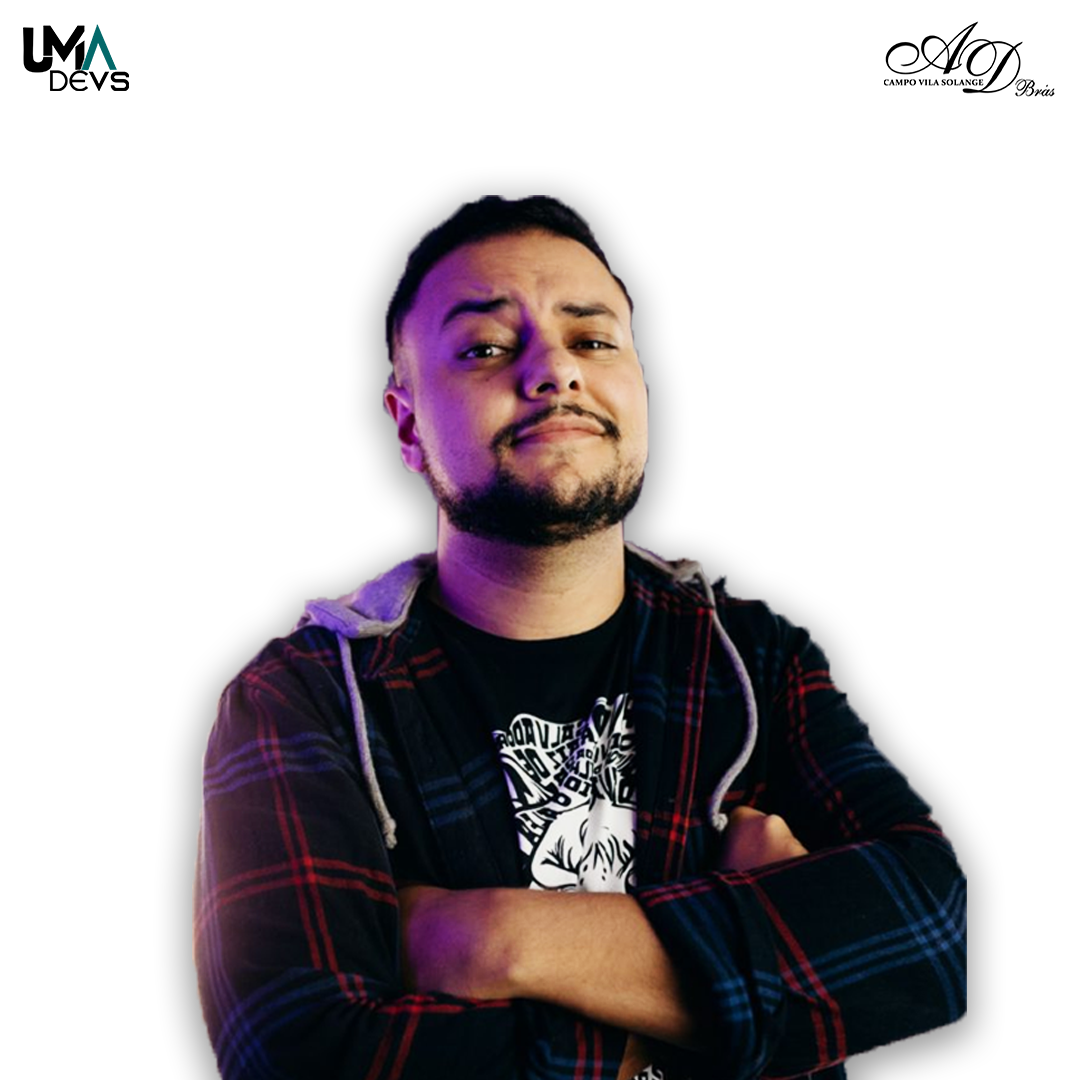
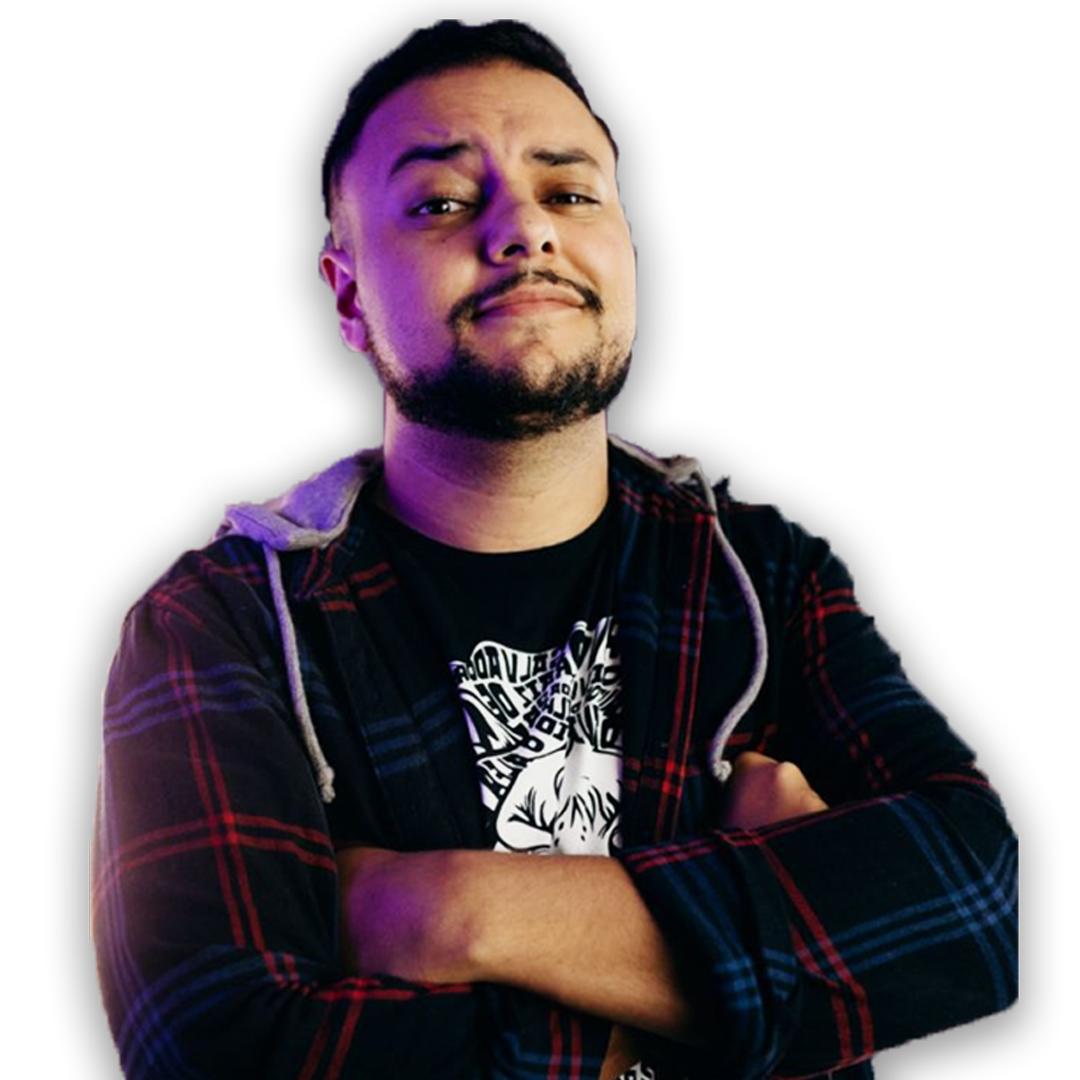
update

diff --git a/index.html b/index.html
@@ -5,7 +5,7 @@
         <meta name="viewport" content="width=device-width, initial-scale=1, shrink-to-fit=no" />
         <meta name="description" content="" />
         <meta name="author" content="" />
-        <title>New Age - Start Bootstrap Theme</title>
+        <title>Stand-Up - Umadevs 2021</title>
         <link rel="icon" type="image/x-icon" href="assets/favicon.ico" />
         <!-- Bootstrap icons-->
         <link href="https://cdn.jsdelivr.net/npm/bootstrap-icons@1.5.0/font/bootstrap-icons.css" rel="stylesheet" />
@@ -28,20 +28,21 @@
                 </button>
                 <div class="collapse navbar-collapse" id="navbarResponsive">
                     <ul class="navbar-nav ms-auto me-4 my-3 my-lg-0">
-                        <li class="nav-item"><a class="nav-link me-lg-3" href="#features">Features</a></li>
-                        <li class="nav-item"><a class="nav-link me-lg-3" href="#download">Download</a></li>
+                        <li class="nav-item"><a class="nav-link me-lg-3" href="#masthead">Página Inicial</a></li>
+                        <li class="nav-item"><a class="nav-link me-lg-3" href="#features">Infomação</a></li>
+                        <li class="nav-item"><a class="nav-link me-lg-3" href="#download">Show</a></li>
                     </ul>
                     <button class="btn btn-primary rounded-pill px-3 mb-2 mb-lg-0" data-bs-toggle="modal" data-bs-target="#feedbackModal">
                         <span class="d-flex align-items-center">
                             <i class="bi-chat-text-fill me-2"></i>
-                            <span class="small">Send Feedback</span>
+                            <span class="small">Enviar Feedback</span>
                         </span>
                     </button>
                 </div>
             </div>
         </nav>
         <!-- Mashead header-->
-        <header class="masthead">
+        <header class="masthead" id="masthead">
             <div class="container px-5">
                 <div class="row gx-5 align-items-center">
                     <div class="col-lg-6">
@@ -49,10 +50,7 @@
                         <div class="mb-5 mb-lg-0 text-center text-lg-start">
                             <h1 class="display-1 lh-1 mb-3">STAND UP UMADEVS</h1>
                             <p class="lead fw-normal text-muted mb-5">PAULO ZAMPARO</p>
-                            <div class="d-flex flex-column flex-lg-row align-items-center">
-                                <a class="me-lg-3 mb-4 mb-lg-0" href="#!"><img class="app-badge" src="assets/img/google-play-badge.svg" alt="..." /></a>
-                                <a href="#!"><img class="app-badge" src="assets/img/app-store-badge.svg" alt="..." /></a>
-                            </div>
+                            
                         </div>
                     </div>
                     <div class="col-lg-6">
@@ -65,19 +63,8 @@
                                         <stop class="gradient-end-color" offset="100%"></stop>
                                     </linearGradient>
                                 </defs>
-                                <circle cx="50" cy="50" r="50"></circle></svg
-                            ><svg class="shape-1 d-none d-sm-block" viewBox="0 0 240.83 240.83" xmlns="http://www.w3.org/2000/svg">
-                                <rect x="-32.54" y="78.39" width="305.92" height="84.05" rx="42.03" transform="translate(120.42 -49.88) rotate(45)"></rect>
-                                <rect x="-32.54" y="78.39" width="305.92" height="84.05" rx="42.03" transform="translate(-49.88 120.42) rotate(-45)"></rect></svg
-                            ><svg class="shape-2 d-none d-sm-block" viewBox="0 0 100 100" xmlns="http://www.w3.org/2000/svg"><circle cx="50" cy="50" r="50"></circle></svg>
-                            <div class="device-wrapper">
-                                <div class="device" data-device="iPhoneX" data-orientation="portrait" data-color="black">
-                                    <div class="screen bg-black">
-                                        <!-- PUT CONTENTS HERE:-->
-                                        <!-- * * This can be a video, image, or just about anything else.-->
-                                        <!-- * * Set the max width of your media to 100% and the height to-->
-                                        <!-- * * 100% like the demo example below.-->
-                                        <video muted="muted" autoplay="" loop="" style="max-width: 100%; height: 100%"><source src="assets/img/STAND UP UMADEVS - PAULO SOLO.png" type="video/mp4" /></video>
+                                <img class="paulo-inicio"src="/assets/STAND UP UMADEVS - PAULO SOLO.png">
+                                <circle cx="50" cy="50" r="50"></circle></svg>
                                     </div>
                                 </div>
                             </div>
@@ -87,16 +74,7 @@
             </div>
         </header>
         <!-- Quote/testimonial aside-->
-        <aside class="text-center bg-gradient-primary-to-secondary">
-            <div class="container px-5">
-                <div class="row gx-5 justify-content-center">
-                    <div class="col-xl-8">
-                        <div class="h2 fs-1 text-white mb-4">"An intuitive solution to a common problem that we all face, wrapped up in a single app!"</div>
-                        <img src="assets/img/tnw-logo.svg" alt="..." style="height: 3rem" />
-                    </div>
-                </div>
-            </div>
-        </aside>
+        
         <!-- App features section-->
         <section id="features">
             <div class="container px-5">
@@ -107,17 +85,19 @@
                                 <div class="col-md-6 mb-5">
                                     <!-- Feature item-->
                                     <div class="text-center">
-                                        <i class="bi-phone icon-feature text-gradient d-block mb-3"></i>
-                                        <h3 class="font-alt">Device Mockups</h3>
-                                        <p class="text-muted mb-0">Ready to use HTML/CSS device mockups, no Photoshop required!</p>
+                                        <img src="https://img.icons8.com/ios-filled/100/000000/alcohol-bottle.png"/>
+                                        <h3 class="font-alt">Consumação Mínima</h3>
+                                        <p class="text-muted mb-0">Consumação minima permitido dentro do local é apenas água, e em garrafinha.</p>
                                     </div>
                                 </div>
                                 <div class="col-md-6 mb-5">
                                     <!-- Feature item-->
                                     <div class="text-center">
-                                        <i class="bi-camera icon-feature text-gradient d-block mb-3"></i>
-                                        <h3 class="font-alt">Flexible Use</h3>
-                                        <p class="text-muted mb-0">Put an image, video, animation, or anything else in the screen!</p>
+                                        <img src="https://img.icons8.com/color/96/000000/parking.png"/>
+                                        <h3 class="font-alt">ONDE
+                                            ESTACIONAR</h3>
+                                        <p class="text-muted mb-0">Temos estacionamento no local.
+                                            Então fique tranquilo com a segurança do seu veículo. </p>
                                     </div>
                                 </div>
                             </div>
@@ -125,19 +105,12 @@
                                 <div class="col-md-6 mb-5 mb-md-0">
                                     <!-- Feature item-->
                                     <div class="text-center">
-                                        <i class="bi-gift icon-feature text-gradient d-block mb-3"></i>
-                                        <h3 class="font-alt">Free to Use</h3>
-                                        <p class="text-muted mb-0">As always, this theme is free to download and use for any purpose!</p>
+                                        <img src="https://img.icons8.com/glyph-neue/64/000000/hamburger.png"/>
+                                        <h3 class="font-alt">ALIMENTAÇÃO</h3>
+                                        <p class="text-muted mb-0">Teremos espaço para refeições no local.</p>
                                     </div>
                                 </div>
-                                <div class="col-md-6">
-                                    <!-- Feature item-->
-                                    <div class="text-center">
-                                        <i class="bi-patch-check icon-feature text-gradient d-block mb-3"></i>
-                                        <h3 class="font-alt">Open Source</h3>
-                                        <p class="text-muted mb-0">Since this theme is MIT licensed, you can use it commercially!</p>
-                                    </div>
-                                </div>
+                           
                             </div>
                         </div>
                     </div>
@@ -151,61 +124,35 @@
                                         <stop class="gradient-end-color" offset="100%"></stop>
                                     </linearGradient>
                                 </defs>
-                                <circle cx="50" cy="50" r="50"></circle></svg
-                            ><svg class="shape-1 d-none d-sm-block" viewBox="0 0 240.83 240.83" xmlns="http://www.w3.org/2000/svg">
-                                <rect x="-32.54" y="78.39" width="305.92" height="84.05" rx="42.03" transform="translate(120.42 -49.88) rotate(45)"></rect>
-                                <rect x="-32.54" y="78.39" width="305.92" height="84.05" rx="42.03" transform="translate(-49.88 120.42) rotate(-45)"></rect></svg
-                            ><svg class="shape-2 d-none d-sm-block" viewBox="0 0 100 100" xmlns="http://www.w3.org/2000/svg"><circle cx="50" cy="50" r="50"></circle></svg>
-                            <div class="device-wrapper">
-                                <div class="device" data-device="iPhoneX" data-orientation="portrait" data-color="black">
-                                    <div class="screen bg-black">
-                                        <!-- PUT CONTENTS HERE:-->
-                                        <!-- * * This can be a video, image, or just about anything else.-->
-                                        <!-- * * Set the max width of your media to 100% and the height to-->
-                                        <!-- * * 100% like the demo example below.-->
-                                        <video muted="muted" autoplay="" loop="" style="max-width: 100%; height: 100%"><source src="assets/img/demo-screen.mp4" type="video/mp4" /></video>
-                                    </div>
-                                </div>
+                                <img class="paulo-info" src="/assets/STAND UP UMADEVS - PAULO SOLO.png">
+                                <circle cx="50" cy="50" r="50"></circle></svg>
+                            
                             </div>
                         </div>
                     </div>
                 </div>
             </div>
         </section>
-        <!-- Basic features section-->
-        <section class="bg-light">
-            <div class="container px-5">
-                <div class="row gx-5 align-items-center justify-content-center justify-content-lg-between">
-                    <div class="col-12 col-lg-5">
-                        <h2 class="display-4 lh-1 mb-4">Enter a new age of web design</h2>
-                        <p class="lead fw-normal text-muted mb-5 mb-lg-0">This section is perfect for featuring some information about your application, why it was built, the problem it solves, or anything else! There's plenty of space for text here, so don't worry about writing too much.</p>
-                    </div>
-                    <div class="col-sm-8 col-md-6">
-                        <div class="px-5 px-sm-0"><img class="img-fluid rounded-circle" src="https://source.unsplash.com/u8Jn2rzYIps/900x900" alt="..." /></div>
-                    </div>
-                </div>
-            </div>
-        </section>
-        <!-- Call to action section-->
-        <section class="cta">
+       
+        <section class="cta" id="download">
             <div class="cta-content">
                 <div class="container px-5">
                     <h2 class="text-white display-1 lh-1 mb-4">
-                        Stop waiting.
+                        CALENDÁRIO DE EVENTOS
                         <br />
-                        Start building.
+                        
                     </h2>
-                    <a class="btn btn-outline-light py-3 px-4 rounded-pill" href="https://startbootstrap.com/theme/new-age" target="_blank">Download for free</a>
+                    <a class="btn btn-outline-light py-3 px-4 rounded-pill" href="https://startbootstrap.com/theme/new-age" target="_blank">Ingressos</a>
                 </div>
             </div>
         </section>
         <!-- App badge section-->
-        <section class="bg-gradient-primary-to-secondary" id="download">
+        <section class="bg-gradient-primary-to-secondary" >
             <div class="container px-5">
-                <h2 class="text-center text-white font-alt mb-4">Get the app now!</h2>
+                <h2 class="text-center text-white font-alt mb-4">Siga-nos nas Redes Sociais</h2>
                 <div class="d-flex flex-column flex-lg-row align-items-center justify-content-center">
-                    <a class="me-lg-3 mb-4 mb-lg-0" href="#!"><img class="app-badge" src="assets/img/google-play-badge.svg" alt="..." /></a>
-                    <a href="#!"><img class="app-badge" src="assets/img/app-store-badge.svg" alt="..." /></a>
+                    <a href="#!"><img src="https://img.icons8.com/ios-filled/50/000000/instagram--v2.png"/></a>
+                    <a href="#!"><img src="https://img.icons8.com/ios-filled/50/000000/facebook-circled--v1.png"/></a>
                 </div>
             </div>
         </section>
@@ -213,12 +160,7 @@
         <footer class="bg-black text-center py-5">
             <div class="container px-5">
                 <div class="text-white-50 small">
-                    <div class="mb-2">&copy; Your Website 2021. All Rights Reserved.</div>
-                    <a href="#!">Privacy</a>
-                    <span class="mx-1">&middot;</span>
-                    <a href="#!">Terms</a>
-                    <span class="mx-1">&middot;</span>
-                    <a href="#!">FAQ</a>
+                    <div class="mb-2">&copy; MidiaUmadevs. All Rights Reserved.</div>
                 </div>
             </div>
         </footer>

diff --git a/css/styles.css b/css/styles.css
@@ -11186,3 +11186,11 @@ footer a:hover, footer a:active, footer a:focus {
     max-width: 17rem;
   }
 }
+
+.paulo-info{
+  width: 500px;
+}
+
+.paulo-inicio{
+  width: 600px;
+}
